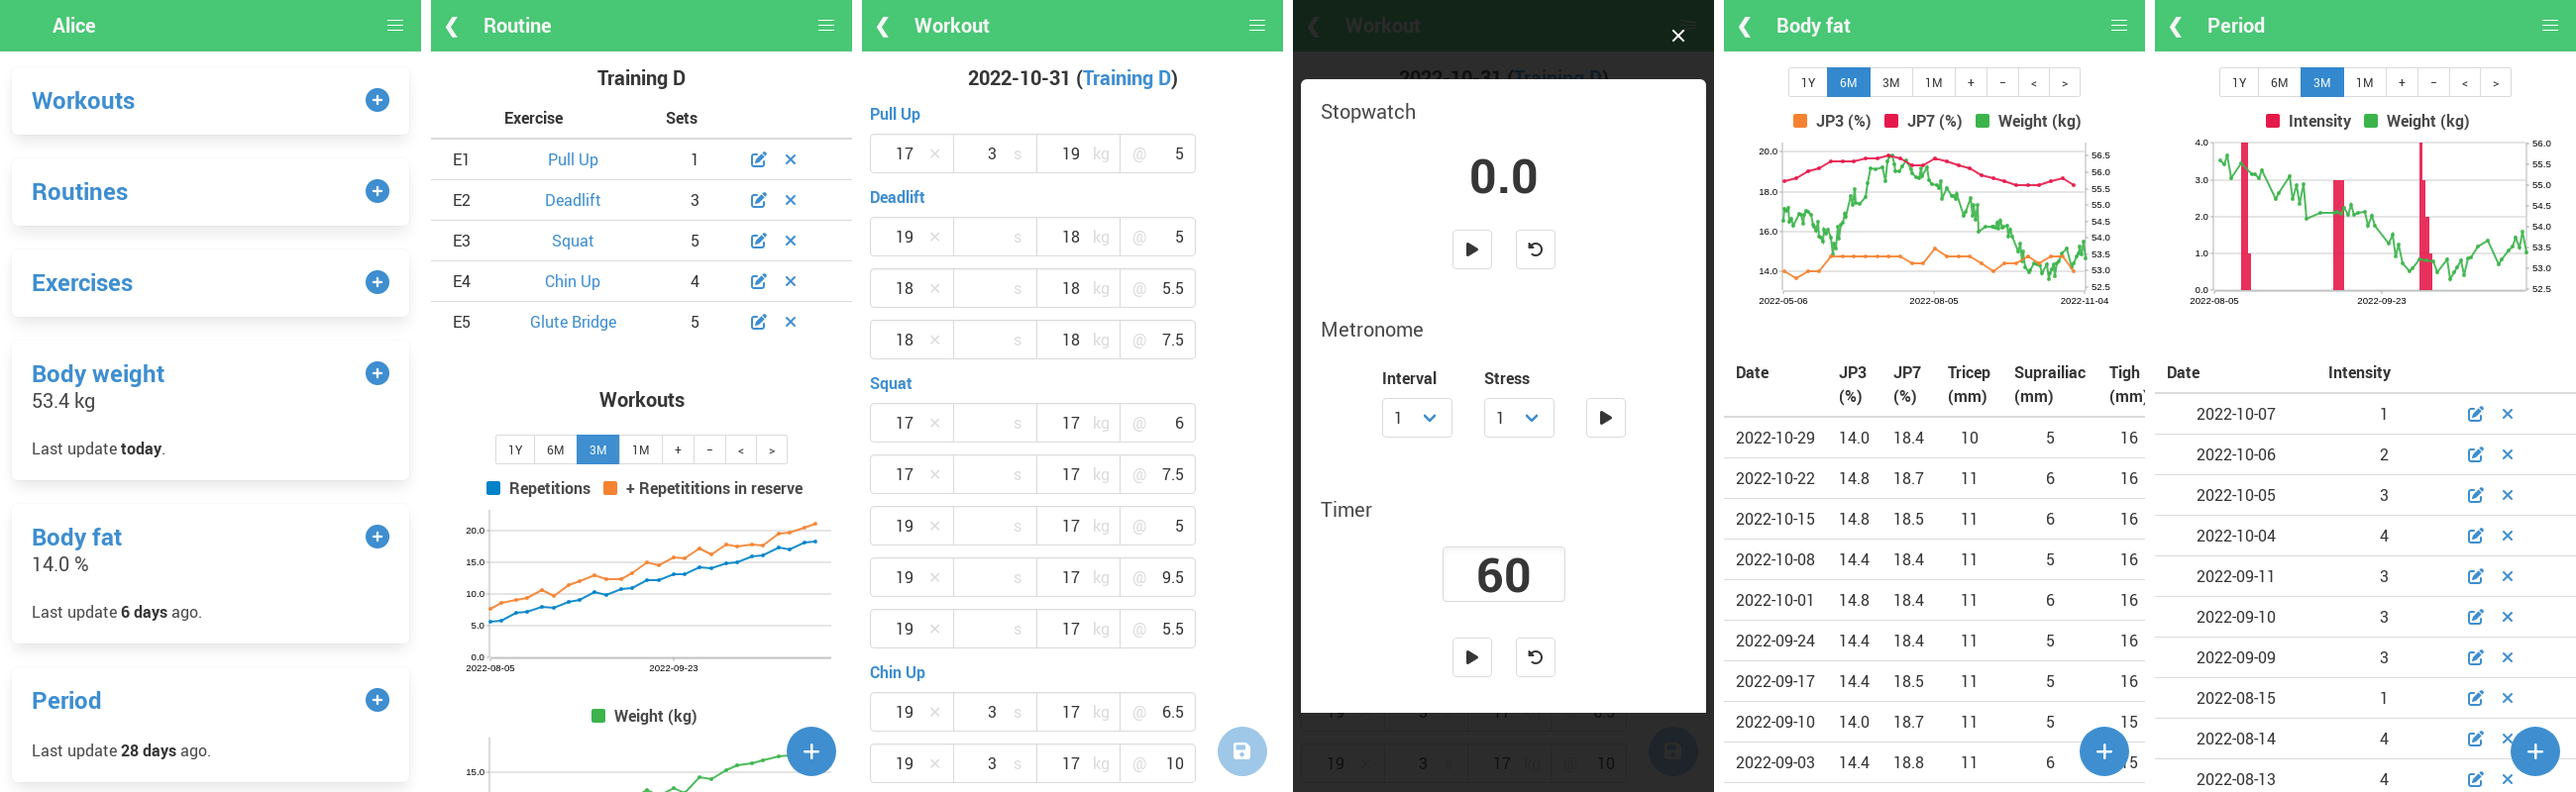
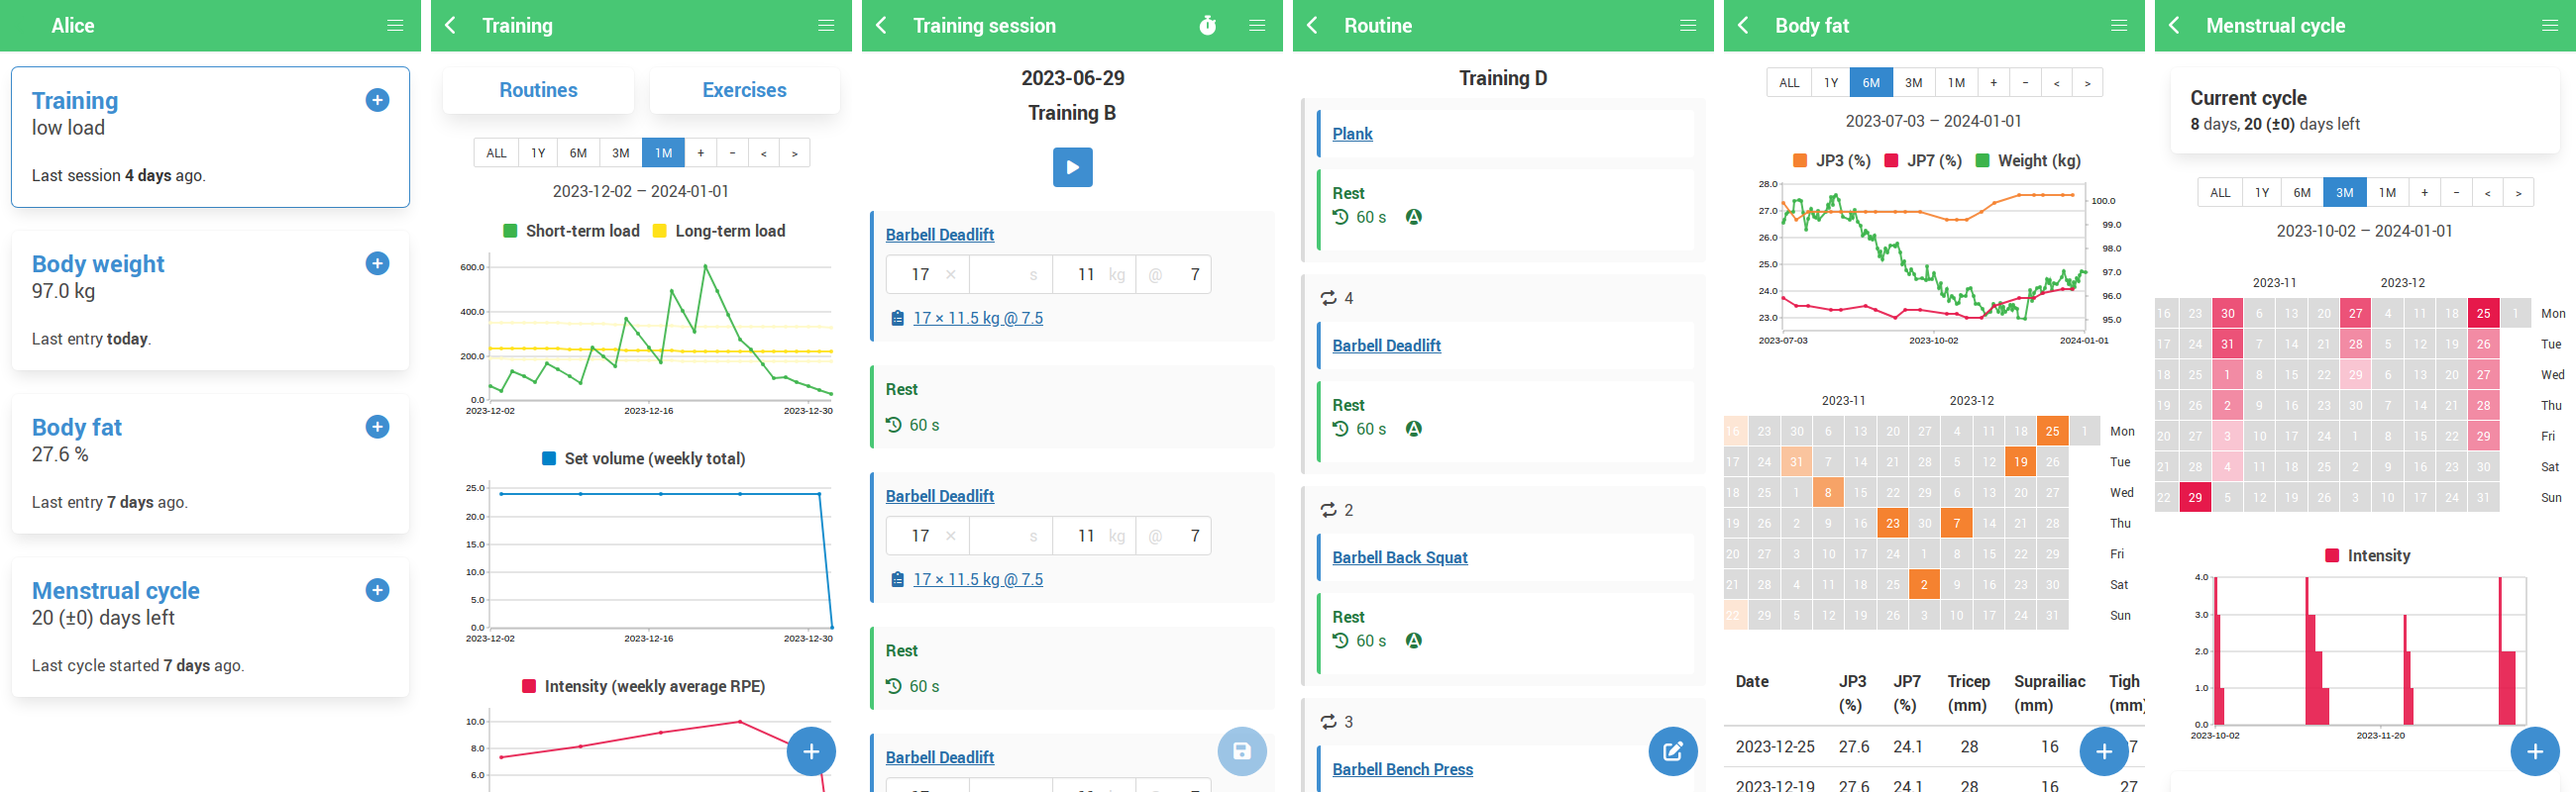
Improve generation of demo data

diff --git a/valens/demo.py b/valens/demo.py
@@ -16,6 +16,7 @@ from valens.models import (
     Sex,
     User,
     Workout,
+    WorkoutRest,
     WorkoutSet,
 )
 
@@ -81,7 +82,7 @@ def _body_fat(user_id: int = 1) -> list[BodyFat]:
         value = tuple(max(1, abs(e + int(random.gauss(0, 0.8)))) for e in previous)
         previous = value
         values.append((day, value))
-        day -= datetime.timedelta(days=7)
+        day -= datetime.timedelta(days=random.randint(5, 9) + round(random.randint(4, 6) / 10) * 7)
 
     return [
         BodyFat(
@@ -129,23 +130,24 @@ class ExerciseType:
 
 def _workouts(user_id: int = 1) -> tuple[list[Exercise], list[Routine], list[Workout]]:
     exercise_names = {
-        "Bench Press": ExerciseType(reps=True, time=False, weight=True, rpe=True),
-        "Bodyrow": ExerciseType(reps=True, time=True, weight=False, rpe=True),
-        "Burpee": ExerciseType(reps=True, time=False, weight=False, rpe=False),
-        "Chin Up": ExerciseType(reps=True, time=True, weight=True, rpe=True),
-        "Deadlift": ExerciseType(reps=True, time=False, weight=True, rpe=True),
+        "Barbell Back Squat": ExerciseType(reps=True, time=False, weight=True, rpe=True),
+        "Barbell Bench Press": ExerciseType(reps=True, time=False, weight=True, rpe=True),
+        "Barbell Deadlift": ExerciseType(reps=True, time=False, weight=True, rpe=True),
+        "Barbell Lunge": ExerciseType(reps=True, time=False, weight=True, rpe=True),
+        "Barbell Romanian Deadlift": ExerciseType(reps=True, time=False, weight=True, rpe=True),
+        "Barbell Row": ExerciseType(reps=True, time=True, weight=False, rpe=True),
         "Dip": ExerciseType(reps=True, time=True, weight=True, rpe=True),
-        "Glute Bridge": ExerciseType(reps=True, time=False, weight=False, rpe=True),
-        "Handstand": ExerciseType(reps=False, time=True, weight=False, rpe=False),
+        "Dumbbell Curl": ExerciseType(reps=True, time=False, weight=True, rpe=True),
+        "Dumbbell Press": ExerciseType(reps=True, time=False, weight=True, rpe=True),
+        "Dumbbell Shoulder Press": ExerciseType(reps=True, time=False, weight=False, rpe=False),
         "Hip Thrust": ExerciseType(reps=True, time=False, weight=False, rpe=True),
-        "Lunge": ExerciseType(reps=True, time=False, weight=True, rpe=True),
-        "Mountain Climber": ExerciseType(reps=False, time=True, weight=False, rpe=False),
-        "Overhead Press": ExerciseType(reps=True, time=False, weight=True, rpe=True),
+        "Lat Pulldown": ExerciseType(reps=True, time=True, weight=True, rpe=True),
         "Plank": ExerciseType(reps=False, time=True, weight=False, rpe=False),
         "Pull Up": ExerciseType(reps=True, time=True, weight=True, rpe=True),
         "Push Up": ExerciseType(reps=True, time=True, weight=False, rpe=True),
-        "Squat": ExerciseType(reps=True, time=False, weight=True, rpe=True),
-        "Step Up": ExerciseType(reps=True, time=False, weight=True, rpe=True),
+        "Seated Leg Curl": ExerciseType(reps=True, time=False, weight=True, rpe=True),
+        "Seated Leg Extension": ExerciseType(reps=True, time=False, weight=True, rpe=True),
+        "Walking Lunge": ExerciseType(reps=True, time=False, weight=True, rpe=False),
     }
     exercises = [
         Exercise(user_id=user_id, name=name)
@@ -195,39 +197,54 @@ def _workouts(user_id: int = 1) -> tuple[list[Exercise], list[Routine], list[Wor
             - datetime.timedelta(days=len(routines) * 13 * 7)
             + datetime.timedelta(days=(quarter * 13 * 7) + (week * 7) + day),
             elements=[
-                WorkoutSet(
-                    position=p,
-                    exercise=e,
-                    reps=5 + week + random.randint(0, 2) if exercise_names[e.name].reps else None,
-                    time=t,
-                    weight=w,
-                    rpe=random.randint(10, 20) * 0.5 if exercise_names[e.name].rpe else None,
-                )
-                for p, (e, t, w) in enumerate(
+                element
+                for position, (exercise, reps, time, weight, rpe) in enumerate(
                     [
-                        (routine_activity.exercise, t, w)
+                        (routine_activity.exercise, reps, time, weight, rpe)
                         for routine_section in routines[quarter].sections
                         for routine_activity in routine_section.parts
                         if isinstance(routine_activity, RoutineActivity)
                         and routine_activity.exercise is not None
-                        for t, w in [
-                            (
+                        for reps, time, weight, rpe in (
+                            [
                                 (
-                                    random.randint(3, 4)
+                                    5 + week + random.randint(0, 1)
                                     if exercise_names[routine_activity.exercise.name].reps
-                                    else 10 + 4 * week + 5 * random.randint(0, 2)
+                                    else None,
+                                    (
+                                        random.randint(3, 4)
+                                        if exercise_names[routine_activity.exercise.name].reps
+                                        else 10 + 5 * week + 5 * random.randint(0, 2)
+                                    )
+                                    if exercise_names[routine_activity.exercise.name].time
+                                    else None,
+                                    5 + (week + random.randint(0, 1)) * 0.5
+                                    if exercise_names[routine_activity.exercise.name].weight
+                                    else None,
+                                    min(7 + (week % 4) + (random.randint(0, 1) * 0.5), 10)
+                                    if exercise_names[routine_activity.exercise.name].rpe
+                                    else None,
                                 )
-                                if exercise_names[routine_activity.exercise.name].time
-                                else None,
-                                5 + week + random.randint(0, 2)
-                                if exercise_names[routine_activity.exercise.name].weight
-                                else None,
-                            )
-                        ]
+                            ]
+                        )
                         for _ in range(routine_section.rounds)
                     ],
-                    start=1,
+                    start=0,
                 )
+                for element in [
+                    WorkoutSet(
+                        position=2 * position + 1,
+                        exercise=exercise,
+                        reps=reps,
+                        time=time,
+                        weight=weight,
+                        rpe=rpe,
+                    ),
+                    WorkoutRest(
+                        position=2 * position + 2,
+                        target_time=60,
+                    ),
+                ]
             ],
             routine=routines[quarter],
         )
